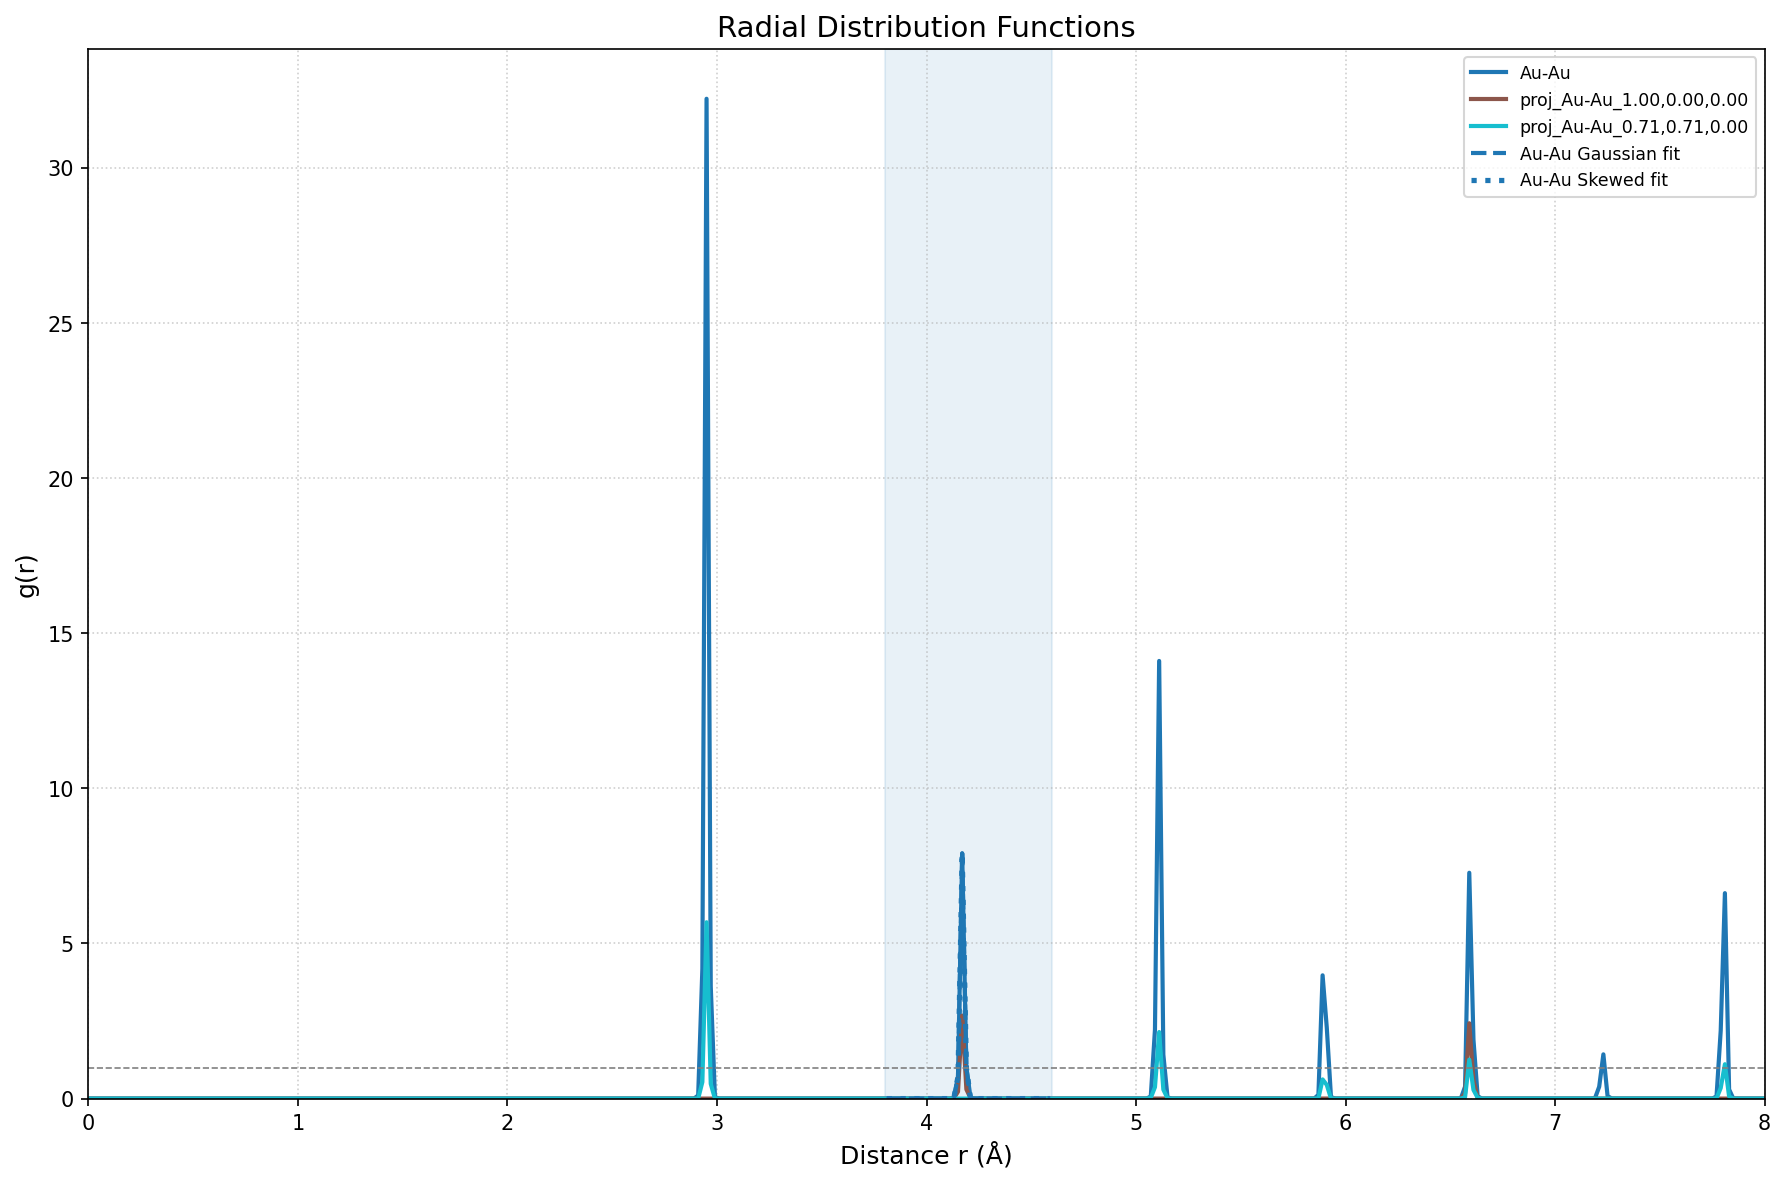
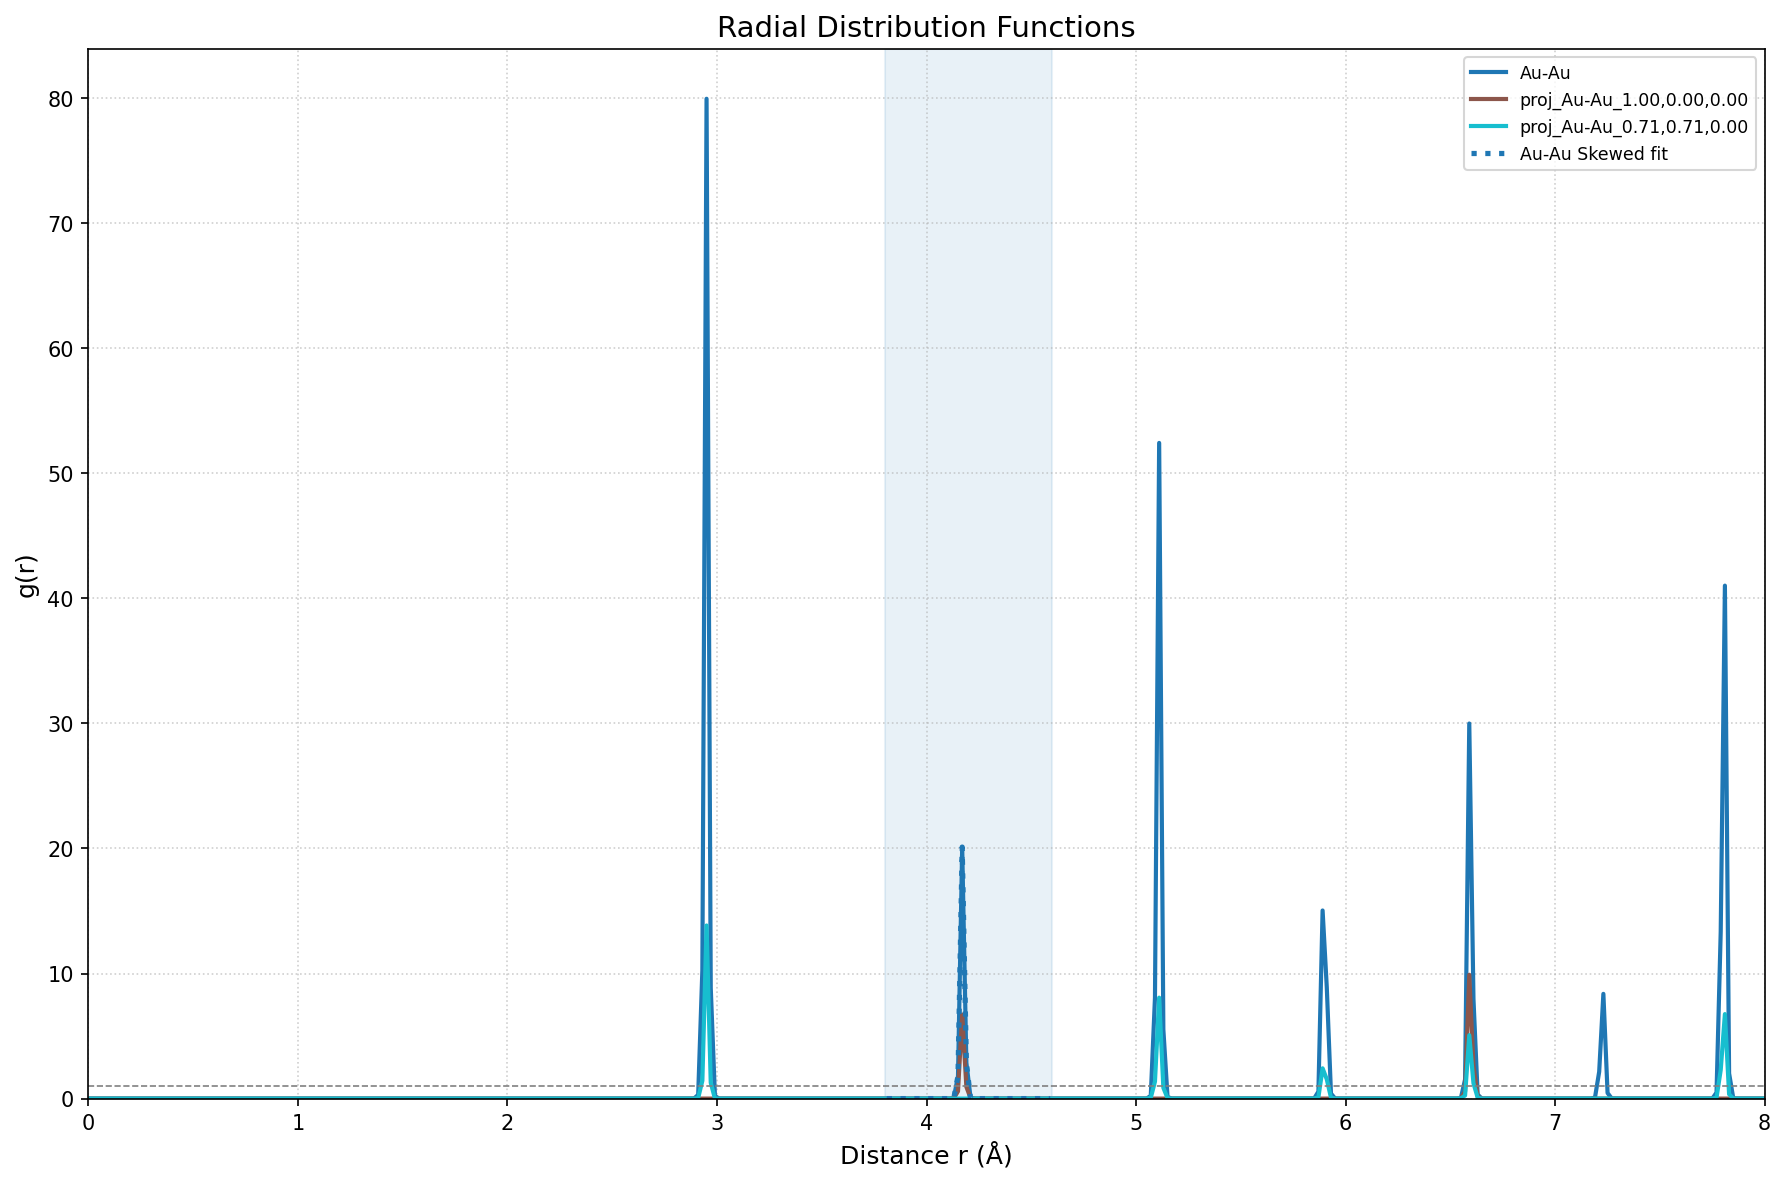
Add lattice vector support for RDF analysis
- Add [lattice] section to TOML configuration for specifying cell parameters
- Support manual cell definition for XYZ files without cell information
- Update example configuration with proper lattice vectors for Au bulk
- Update documentation to explain lattice vector configuration
- Ensures correct PBC handling for accurate RDF calculations

diff --git a/src/md_exafs/rdf_analysis.py b/src/md_exafs/rdf_analysis.py
@@ -588,6 +588,32 @@ def main():
     pipeline = import_file(str(traj_file))
     num_frames = pipeline.source.num_frames
     
+    # Set up simulation cell if provided
+    if 'lattice' in config:
+        from ovito.data import SimulationCell
+        
+        # Create cell matrix from lattice vectors
+        a = config['lattice']['a']
+        b = config['lattice']['b']
+        c = config['lattice']['c']
+        pbc = config['lattice'].get('pbc', [True, True, True])
+        
+        cell_matrix = np.array([
+            [a[0], a[1], a[2], 0.0],
+            [b[0], b[1], b[2], 0.0],
+            [c[0], c[1], c[2], 0.0]
+        ])
+        
+        # Add modifier to set the cell
+        def set_cell(frame, data):
+            data.cell = SimulationCell(matrix=cell_matrix, pbc=pbc)
+        
+        pipeline.modifiers.append(set_cell)
+        print(f"Set simulation cell with PBC: {pbc}")
+        print(f"  a = {a}")
+        print(f"  b = {b}")
+        print(f"  c = {c}")
+    
     # Get frame range
     frame_start = config['analysis'].get('frame_start', 0)
     frame_end = min(config['analysis'].get('frame_end', num_frames), num_frames)

diff --git a/plot_chi_from_database.py b/plot_chi_from_database.py
@@ -94,7 +94,7 @@ def plot_atom_sum(db: ChiDatabaseQuery,
     # Get path IDs
     path_ids = [p['id'] for p in paths]
     
-    # Sum chi data
+    # Sum chi data (paths are interpolated to uniform k-grid before summing)
     summed_data = db.sum_chi_data(path_ids)
     
     if summed_data is None:
@@ -163,7 +163,7 @@ def plot_averaged_atoms(db: ChiDatabaseQuery,
     # Get path IDs
     path_ids = [p['id'] for p in paths]
     
-    # Average using correct method (sum within atoms, then average)
+    # Average using correct method (interpolate to uniform k-grid, sum within atoms, then average)
     averaged_data, num_atoms = db.sum_chi_within_atoms_then_average(path_ids)
     
     if averaged_data is None:

diff --git a/continue.md b/continue.md
@@ -1,0 +1,85 @@
+# MD-EXAFS Database Implementation Continuation
+
+## Current Status
+
+### Database Building
+- **Issue**: Database building was hanging at 0% on HPC with 10,000 atoms (3.6M files)
+- **Root Causes Identified**:
+  1. Multiprocessing pickle errors with nested functions
+  2. Larch interpreter initialization overhead (12s per file)
+  3. No progress feedback during 167-second file scan
+  4. ProcessPoolExecutor being recreated for each batch
+
+- **Fixes Implemented** (commit 2a3d65b):
+  1. Moved worker functions to module level to fix pickle errors
+  2. Cache Larch interpreter per worker process (created once, reused for all files)
+  3. Added progress logging during file scanning
+  4. Use persistent ProcessPoolExecutor with initializer
+  5. Added timeouts (5 min/batch, 1 min/atom) to prevent hanging
+  6. Added `--diagnostic` mode to test setup
+
+### Database Averaging
+- **Critical Bug Found**: Database was averaging all paths directly instead of sum-within-atoms then average
+- **Fix Implemented** (commit dbb8130):
+  1. Added `sum_chi_within_atoms_then_average()` method to `chi_database_query.py`
+  2. Updated `average_chi_from_database()` to use corrected method
+  3. Now correctly: Groups by atom → Sums paths within atom → Averages across atoms
+
+## Current Database Building Command
+```bash
+md-exafs-average --build-database --input-dir feff_calculations_keep --database 298_database.db --num-workers 112
+```
+
+## Key Implementation Details
+
+### File Structure Found
+- 10,000 directories with FEFF files
+- ~360 feff*.dat files per directory
+- Total: 3.6 million files
+- Example: `frame_180000/atom_0/` contains 368 files
+
+### Database Schema
+- `paths` table: frame, atom_id, path_num, nleg, deg, reff, path_type, atom_sequence
+- `chi_data` table: k_grid and chi_values as binary blobs
+- `atoms` table: frame, atom_id, element, position
+
+### Critical Functions
+1. `_init_worker()` - Initializes Larch once per worker
+2. `_get_larch_interpreter()` - Returns cached interpreter
+3. `scan_feff_calculations()` - Now works with any directory structure
+4. `sum_chi_within_atoms_then_average()` - Correct physical averaging
+
+## Testing Status
+- SQLite works on NFS filesystem
+- Multiprocessing with Larch works when functions at module level
+- File scanning takes ~167 seconds for 3.6M files
+- Database creation successful with WAL mode
+
+## Next Steps if Database Building Still Has Issues
+1. Monitor progress during file scan (should show rate)
+2. Check if workers are initializing (should see progress after scan)
+3. If still hanging, try with fewer workers first (`--num-workers 4`)
+4. Use `--diagnostic` flag to test setup before full run
+
+## Configuration Files
+- Using `average_multi.toml` for multipath averaging
+- Database path: `298_database.db`
+- Frame range: 180000-200000 (1000 frames)
+- Path types being averaged: U-U with reff <= 4.0
+
+## Important Notes
+- The database builder now processes ALL files found, not filtered by frame range
+- Frame filtering happens during averaging, not building
+- Each atom must be treated as an independent measurement
+- The averaging must be: sum within atoms, then average across atoms
+
+## Git Status
+- On branch: main
+- Latest commits include database building and averaging fixes
+- All changes committed and ready for testing
+
+## Environment
+- Running on HPC with NFS filesystem
+- Python 3.10.18, SQLite 3.50.1
+- Using conda environment: md-exafs
+- 112 workers available for parallel processing

diff --git a/README.md b/README.md
@@ -316,6 +316,13 @@ Example TOML configuration:
 [input]
 trajectory_file = "trajectory.xyz"
 
+# Lattice vectors (required for XYZ files without cell info)
+[lattice]
+a = [21.875, 0.328, 0.0]     # First lattice vector (Angstroms)
+b = [0.328, 21.875, 0.0]     # Second lattice vector
+c = [0.0, 0.0, 21.880]       # Third lattice vector
+pbc = [true, true, true]     # Periodic boundary conditions
+
 [output]
 directory = "rdf_results"
 report_file = "rdf_analysis.txt"
